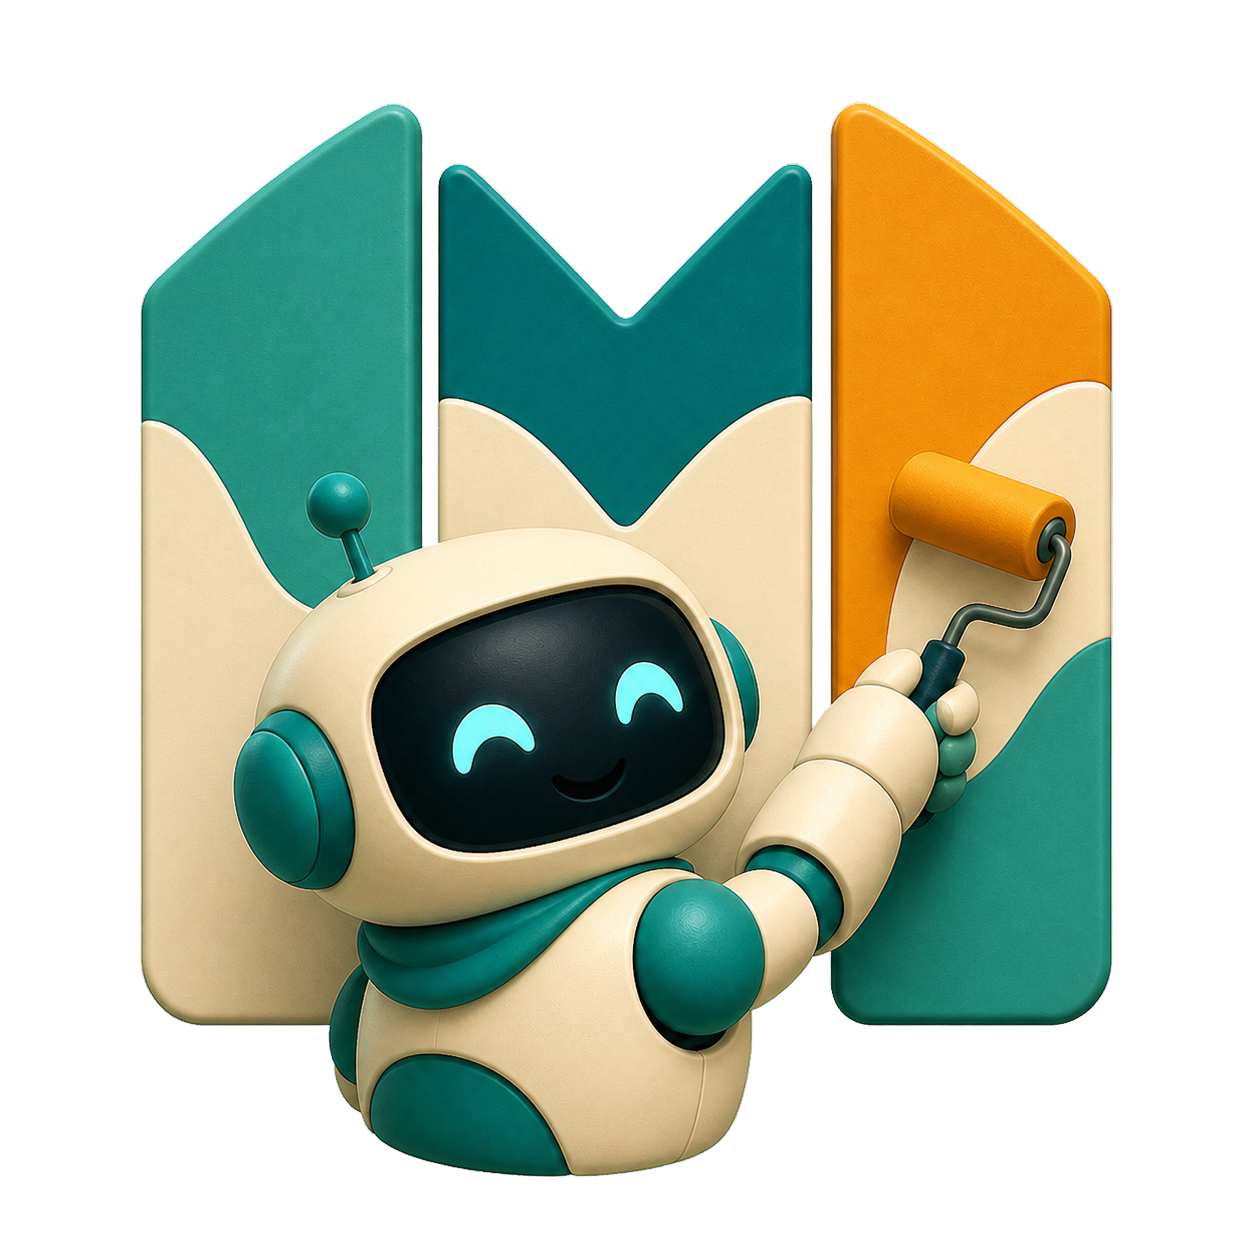
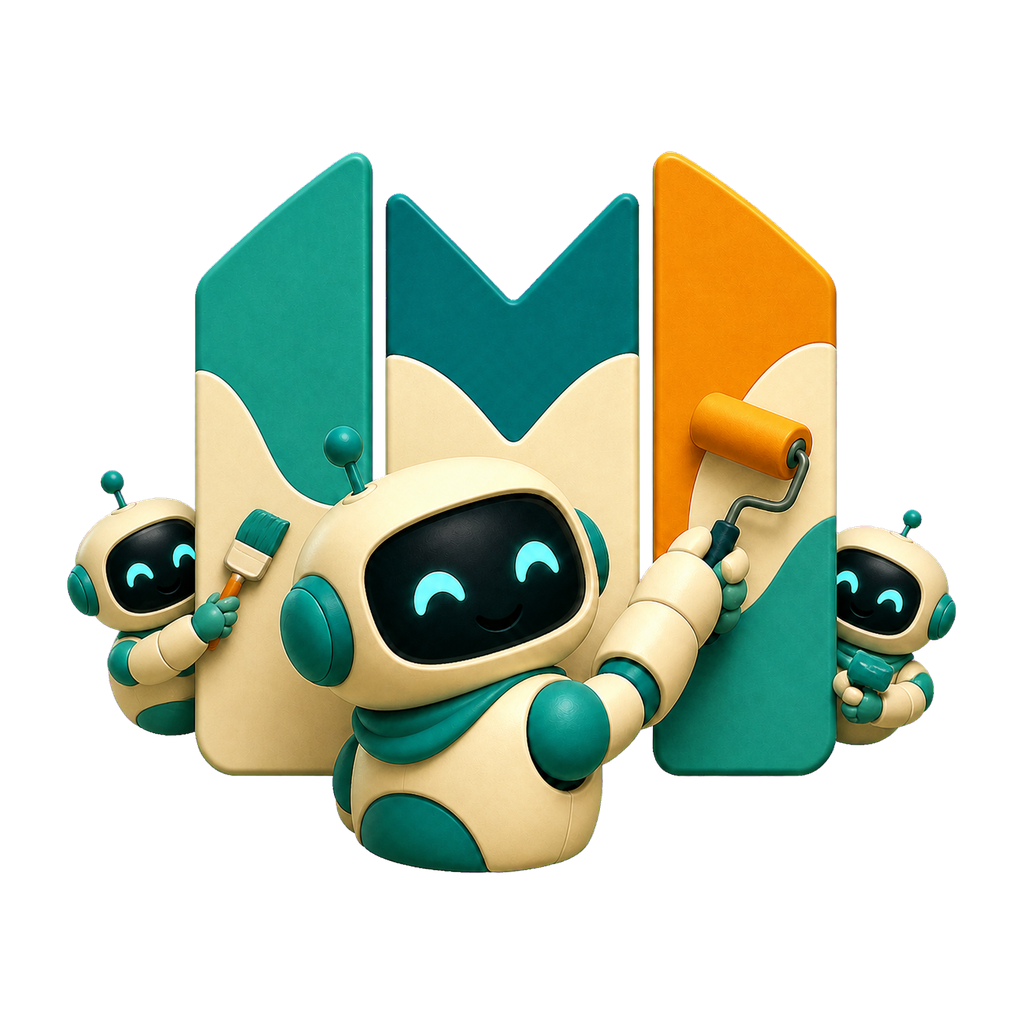
Revise MURAL identity for multi-agent authoring

diff --git a/site/app/MuralSite.tsx b/site/app/MuralSite.tsx
@@ -17,7 +17,7 @@ const copy = {
       "MURAL is a Skill-driven multi-agent framework that carries deck decisions through research, planning, grouped authoring, rendered review, and later human edits.",
     primaryCta: "Explore the lifecycle",
     secondaryCta: "See release status",
-    markLabel: "Multi-Agent Unified Revision-Aware Authoring",
+    markLabel: "Multi-Agent Unified Revision-Aware Authoring for Long-Horizon Presentations",
     artNote: "One shared M. One revision-aware authoring lifecycle.",
     horizonKicker: "The actual horizon",
     horizonTitle: "Decisions must survive in three directions.",
@@ -91,7 +91,7 @@ const copy = {
       "MURAL 是一个技能驱动多智能体框架，让整册决策贯穿资料接地、规划、分组制作、渲染复审和后续人工修改。",
     primaryCta: "查看完整生命周期",
     secondaryCta: "了解发布状态",
-    markLabel: "Multi-Agent Unified Revision-Aware Authoring",
+    markLabel: "Multi-Agent Unified Revision-Aware Authoring for Long-Horizon Presentations",
     artNote: "一个共享的 M，一条修改感知的创作生命周期。",
     horizonKicker: "真正的 long horizon",
     horizonTitle: "一项决策需要沿三个方向持续有效。",
@@ -299,4 +299,3 @@ export function MuralSite({ language }: { language: Language }) {
     </main>
   );
 }
-

diff --git a/site/app/layout.tsx b/site/app/layout.tsx
@@ -4,7 +4,7 @@ import "./globals.css";
 export const metadata: Metadata = {
   title: "MURAL",
   description:
-    "Multi-Agent Unified Revision-Aware Authoring for long-horizon presentations.",
+    "Multi-Agent Unified Revision-Aware Authoring for Long-Horizon Presentations.",
   icons: {
     icon: "/favicon.png",
     shortcut: "/favicon.png",
@@ -32,4 +32,3 @@ export default function RootLayout({ children }: Readonly<{ children: React.Reac
     </html>
   );
 }
-

diff --git a/tools/build_logo_assets.py b/tools/build_logo_assets.py
@@ -11,7 +11,9 @@ from PIL import Image, ImageDraw, ImageFont
 ROOT = Path(__file__).resolve().parents[1]
 LOGO_DIR = ROOT / "assets" / "logo"
 EXPORT_DIR = LOGO_DIR / "exports"
-PRIMARY_SOURCE = LOGO_DIR / "mural-logo-mark-v2.png"
+SOCIAL_DIR = ROOT / "assets" / "social"
+SITE_PUBLIC_DIR = ROOT / "site" / "public"
+PRIMARY_SOURCE = LOGO_DIR / "mural-logo-mark-v3.png"
 COMPACT_SOURCE = LOGO_DIR / "mural-logo-mark-v1.png"
 FONT = (
     ROOT.parent
@@ -70,6 +72,22 @@ def draw_letterspaced(
         x += int(draw.textlength(char, font=font)) + spacing
 
 
+def draw_colored_segments(
+    draw: ImageDraw.ImageDraw,
+    xy: tuple[int, int],
+    segments: tuple[tuple[str, str], ...],
+    font: ImageFont.FreeTypeFont,
+    gap: int = 0,
+) -> None:
+    """Draw an acronym expansion with deterministic initial highlighting."""
+    x, y = xy
+    for index, (text, color) in enumerate(segments):
+        draw.text((x, y), text, font=font, fill=color, anchor="la")
+        x += int(draw.textlength(text, font=font))
+        if index < len(segments) - 1:
+            x += gap
+
+
 def export_square(mark: Image.Image, name: str, sizes: tuple[int, ...]) -> None:
     EXPORT_DIR.mkdir(parents=True, exist_ok=True)
     for size in sizes:
@@ -92,26 +110,45 @@ def build_mark_exports(primary: Image.Image, compact: Image.Image) -> None:
 
 
 def build_lockup(mark: Image.Image, *, dark: bool) -> Image.Image:
-    width, height = 1800, 560
+    width, height = 1800, 620
     background = DARK if dark else OFF_WHITE
     canvas = Image.new("RGB", (width, height), background)
-    mark_fit = contain(mark, (430, 430))
+    mark_fit = contain(mark, (470, 470))
     canvas.paste(mark_fit, (72, (height - mark_fit.height) // 2), mark_fit)
 
     draw = ImageDraw.Draw(canvas)
     word_font = ImageFont.truetype(str(FONT), 224)
-    tag_font = ImageFont.truetype(str(FONT), 47)
+    tag_font = ImageFont.truetype(str(FONT), 39)
     word_color = OFF_WHITE if dark else INK
     tag_color = MINT if dark else TEAL
     start_x = 565
-    word_y = 92
+    word_y = 72
     draw_letterspaced(draw, (start_x, word_y), "MURAL", word_font, word_color, 12)
-    draw.rounded_rectangle((start_x, 357, start_x + 96, 369), radius=6, fill=AMBER)
-    draw.text(
-        (start_x + 122, 333),
-        "Multi-Agent Unified Revision-Aware Authoring",
-        font=tag_font,
-        fill=tag_color,
+    draw.rounded_rectangle((start_x, 348, start_x + 96, 360), radius=6, fill=AMBER)
+    draw_colored_segments(
+        draw,
+        (start_x + 122, 322),
+        (
+            ("M", AMBER),
+            ("ulti-Agent   ", tag_color),
+            ("U", AMBER),
+            ("nified   ", tag_color),
+            ("R", AMBER),
+            ("evision-Aware   ", tag_color),
+            ("A", AMBER),
+            ("uthoring", tag_color),
+        ),
+        tag_font,
+    )
+    draw_colored_segments(
+        draw,
+        (start_x + 122, 384),
+        (
+            ("for ", tag_color),
+            ("L", AMBER),
+            ("ong-Horizon Presentations", tag_color),
+        ),
+        tag_font,
     )
     return canvas
 
@@ -119,12 +156,12 @@ def build_lockup(mark: Image.Image, *, dark: bool) -> Image.Image:
 def build_brand_sheet(
     primary: Image.Image, compact: Image.Image, light: Image.Image, dark: Image.Image
 ) -> None:
-    canvas = Image.new("RGB", (2000, 1320), "#FFFFFF")
+    canvas = Image.new("RGB", (2000, 1500), "#FFFFFF")
     draw = ImageDraw.Draw(canvas)
     title_font = ImageFont.truetype(str(FONT), 72)
     label_font = ImageFont.truetype(str(FONT), 34)
     draw.text((90, 62), "MURAL Logo System", font=title_font, fill=INK)
-    draw.text((92, 150), "Muralist robot + living M · release candidate v2", font=label_font, fill=TEAL)
+    draw.text((92, 150), "Multi-agent muralists + living M · primary identity", font=label_font, fill=TEAL)
 
     avatar = Image.open(EXPORT_DIR / "mural-github-avatar-1024.png").resize(
         (430, 430), Image.Resampling.LANCZOS
@@ -143,13 +180,13 @@ def build_brand_sheet(
     small_label_font = ImageFont.truetype(str(FONT), 27)
     draw.text((90, 1035), "Compact mark / favicon", font=small_label_font, fill=INK)
 
-    light_small = light.resize((1280, 398), Image.Resampling.LANCZOS)
+    light_small = light.resize((1280, 441), Image.Resampling.LANCZOS)
     canvas.paste(light_small, (620, 230))
-    draw.text((620, 650), "Horizontal lockup · light", font=label_font, fill=INK)
+    draw.text((620, 695), "Horizontal lockup · light", font=label_font, fill=INK)
 
-    dark_small = dark.resize((1280, 398), Image.Resampling.LANCZOS)
-    canvas.paste(dark_small, (620, 760))
-    draw.text((620, 1180), "Horizontal lockup · dark", font=label_font, fill=INK)
+    dark_small = dark.resize((1280, 441), Image.Resampling.LANCZOS)
+    canvas.paste(dark_small, (620, 805))
+    draw.text((620, 1270), "Horizontal lockup · dark", font=label_font, fill=INK)
 
     swatches = [(TEAL, "Teal"), (INK, "Ink"), (AMBER, "Revision"), (OFF_WHITE, "Canvas")]
     for index, (color, label) in enumerate(swatches):
@@ -161,6 +198,52 @@ def build_brand_sheet(
         draw.text((x + 76, y + 16), label, font=small_label_font, fill=INK)
 
     canvas.save(EXPORT_DIR / "mural-logo-system-sheet.png", optimize=True)
+
+
+def build_social_card(mark: Image.Image) -> None:
+    """Build the release social card with exact typography and the approved mark."""
+    width, height = 1200, 630
+    canvas = Image.new("RGB", (width, height), OFF_WHITE)
+    draw = ImageDraw.Draw(canvas)
+
+    # Quiet registration lines echo the grid used by the paper figures.
+    grid = "#CDE2DE"
+    draw.line((35, 0, 35, height), fill=TEAL, width=1)
+    draw.line((0, 582, width, 582), fill=TEAL, width=1)
+    draw.ellipse((31, 578, 39, 586), fill=TEAL)
+
+    brand_font = ImageFont.truetype(str(FONT), 46)
+    headline_font = ImageFont.truetype(str(FONT), 75)
+    badge_font = ImageFont.truetype(str(FONT), 22)
+    draw_letterspaced(draw, (72, 50), "MURAL", brand_font, TEAL, 2)
+
+    headline = ("A presentation", "is not a stack", "of slides.")
+    for row, text in enumerate(headline):
+        draw.text((74, 154 + row * 82), text, font=headline_font, fill=INK)
+
+    draw.rounded_rectangle((78, 446, 342, 500), radius=13, fill="#F2A51A")
+    draw.text((100, 459), "RESEARCH PREVIEW", font=badge_font, fill=INK)
+
+    # A subtle page trail links the headline to the shared mural.
+    for index in range(5):
+        x = 420 + index * 35
+        y = 356 + index * 14
+        draw.rounded_rectangle(
+            (x, y, x + 105, y + 76),
+            radius=6,
+            fill="#F8FBFA",
+            outline=grid,
+            width=2,
+        )
+        draw.rectangle((x + 65, y + 18, x + 92, y + 25), fill=TEAL)
+
+    mark_fit = contain(mark, (570, 570))
+    canvas.paste(mark_fit, (610, (height - mark_fit.height) // 2), mark_fit)
+
+    SOCIAL_DIR.mkdir(parents=True, exist_ok=True)
+    SITE_PUBLIC_DIR.mkdir(parents=True, exist_ok=True)
+    canvas.save(SOCIAL_DIR / "mural-og-1200x630.png", optimize=True)
+    canvas.save(SITE_PUBLIC_DIR / "og.png", optimize=True)
 
 
 def main() -> None:
@@ -179,6 +262,7 @@ def main() -> None:
     light.save(EXPORT_DIR / "mural-logo-lockup-light.png", optimize=True)
     dark.save(EXPORT_DIR / "mural-logo-lockup-dark.png", optimize=True)
     build_brand_sheet(primary, compact, light, dark)
+    build_social_card(primary)
 
     print(f"Built MURAL logo exports in {EXPORT_DIR}")
 

diff --git a/docs/branding.md b/docs/branding.md
@@ -4,12 +4,14 @@ MURAL uses two complementary marks.
 
 ## Primary mascot
 
-The primary mark is the **muralist robot** painting a three-panel capital M. The robot makes the
-system approachable; the M-shaped page mosaic connects the character to presentation authoring;
-the raised amber paint roller represents revision as a first-class action rather than an afterthought.
+The primary mark is a **three-agent muralist team** painting one shared, three-panel capital M. The
+larger foreground robot represents the coordinator, while the two smaller agents visibly own
+different parts of the same mural. The M-shaped page mosaic connects the team to presentation
+authoring; the raised amber paint roller represents revision as a first-class action rather than an
+afterthought.
 
 Use the mascot for the GitHub avatar, project site, launch material, and large-format identity.
-The transparent master is `assets/logo/mural-logo-mark-v2.png`.
+The transparent multi-agent master is `assets/logo/mural-logo-mark-v3.png`.
 
 ## Compact mark
 
@@ -33,7 +35,8 @@ would lose legibility. The transparent master is `assets/logo/mural-logo-mark-v1
 - Do not recolor the cyan eyes or use amber as the dominant color.
 - Do not place text over the robot face, roller, or M silhouette.
 - Use the compact mark for small UI surfaces instead of shrinking the mascot indefinitely.
+- In horizontal lockups, the amber initials map M/U/R/A/L to Multi-Agent, Unified,
+  Revision-Aware, Authoring, and Long-Horizon; “Presentations” names the authored artifact.
 - Do not use the mascot as evidence inside technical diagrams; the paper figures use a simplified
   line-art face derived from the same character.
 - Rebuild exports with `python tools/build_logo_assets.py` after changing a source mark.
-

diff --git a/assets/social/README.md b/assets/social/README.md
@@ -1,13 +1,14 @@
 # Social card
 
-`mural-og-1200x630.png` is the release-ready Open Graph card. It was generated
-from `mural-og-source.png`, then resized and exported at 1200 × 630 pixels.
+`mural-og-1200x630.png` is the release-ready Open Graph card. It is composed
+deterministically from the approved multi-agent mark by `tools/build_logo_assets.py`, then copied
+to `site/public/og.png`. The earlier `mural-og-source.png` is retained as an exploration source.
 
-## Generation prompt
+## Original exploration prompt
 
 Create a polished 1.91:1 Open Graph launch card for an academic open-source
-project called “MURAL”. Use the project mascot: a small white muralist robot
-with a dark rounded face, cyan eyes, and a warm amber paint roller, standing on
+project called “MURAL”. Use the project mascot: a coordinated team of small white muralist robots
+with dark rounded faces, cyan eyes, and warm amber painting tools, standing on
 the right beside a three-panel wall whose negative space forms a subtle letter
 M. Keep the left side editorial and spacious. Use an off-white paper background,
 deep charcoal typography, restrained teal and amber accents, crisp flat-vector

diff --git a/blog/introducing-mural.md b/blog/introducing-mural.md
@@ -29,7 +29,7 @@ We call this a long-horizon authoring problem. The horizon is not simply the num
 time required to generate them. It is the distance over which a fact, narrative promise, design rule,
 or user requirement must remain valid across stages, pages, and revisions.
 
-MURAL — Multi-Agent Unified Revision-Aware Authoring — is our attempt to make that lifecycle explicit.
+MURAL — Multi-Agent Unified Revision-Aware Authoring for Long-Horizon Presentations — is our attempt to make that lifecycle explicit.
 It is a Skill-driven multi-agent framework for editable HTML presentations, built around a shared deck
 blueprint, slide-group ownership, rendered inspection at two levels, and revision routing by impact
 scope.
@@ -162,4 +162,3 @@ ledgers, redistribution review, and licenses appropriate to each artifact.
 MURAL starts from a simple premise: a presentation is not a pile of independently acceptable slides.
 It is a designed argument that persists through evidence, planning, production, review, and change. The
 system should be organized around that lifecycle too.
-

diff --git a/blog/introducing-mural.zh-CN.md b/blog/introducing-mural.zh-CN.md
@@ -23,7 +23,7 @@ status: research-preview
 这就是本文所说的 long-horizon authoring。这里的 horizon 不只由页数或生成时间决定，而是事实、叙事承诺、
 设计规则与用户要求，需要跨越阶段、页面和修改轮次保持有效的距离。
 
-MURAL 的全称是 Multi-Agent Unified Revision-Aware Authoring。它是一个面向可编辑 HTML 演示文稿的
+MURAL 的全称是 Multi-Agent Unified Revision-Aware Authoring for Long-Horizon Presentations。它是一个面向可编辑 HTML 演示文稿的
 技能驱动多智能体框架，围绕 shared deck blueprint、页面组共同负责、两级渲染检查和按影响范围执行修改来组织
 完整生命周期。
 
@@ -122,4 +122,3 @@ DECKBench 提供多轮修改任务。把这些评测放在一起，才能判断 
 
 MURAL 的出发点并不复杂：演示文稿不是一摞分别合格的页面，而是一段贯穿证据、规划、制作、复审和修改的设计论证。
 系统本身也应该围绕这个生命周期来组织。
-

diff --git a/docs/method.md b/docs/method.md
@@ -1,6 +1,6 @@
 # Method overview
 
-MURAL — **Multi-Agent Unified Revision-Aware Authoring** — models presentation creation as a
+MURAL — **Multi-Agent Unified Revision-Aware Authoring for Long-Horizon Presentations** — models presentation creation as a
 full lifecycle with persistent, externalized state.
 
 ## Long-horizon state
@@ -54,4 +54,3 @@ but to avoid restarting the complete lifecycle for a change that can be safely l
 HTML/CSS/SVG keep text, layout, media, and graphics separately addressable and make browser pixels
 the inspection target. Delivery adapters can export PPTX, PDF, and images, but each adapter has its
 own fidelity and editability limits.
-

diff --git a/site/README.md b/site/README.md
@@ -1,7 +1,7 @@
 # MURAL project site
 
 This directory contains the bilingual, deployable project site for MURAL — Multi-Agent Unified
-Revision-Aware Authoring.
+Revision-Aware Authoring for Long-Horizon Presentations.
 
 ## Routes
 
@@ -25,4 +25,3 @@ claims, author metadata, or licenses until those artifacts are frozen.
 
 Brand and paper-figure sources live one level above this directory. Copies in `public/` are deployment
 assets and should be refreshed when their approved source changes.
-
